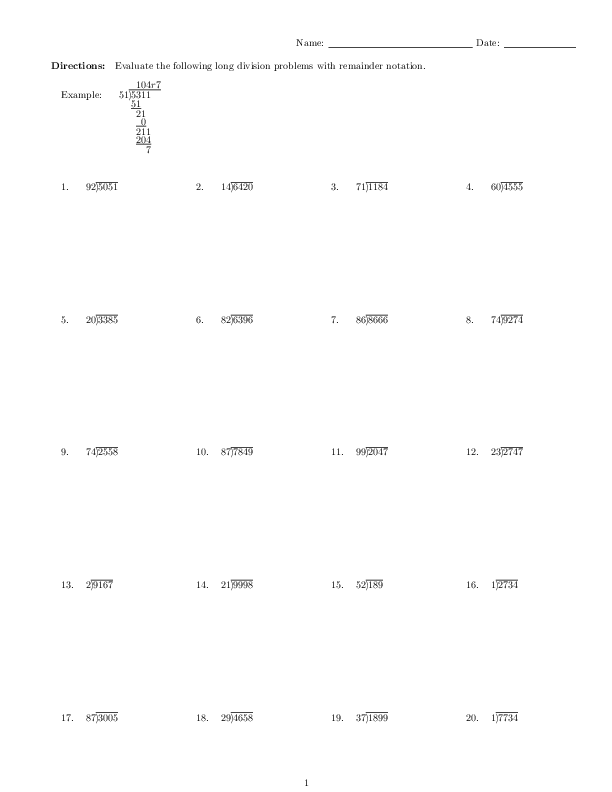
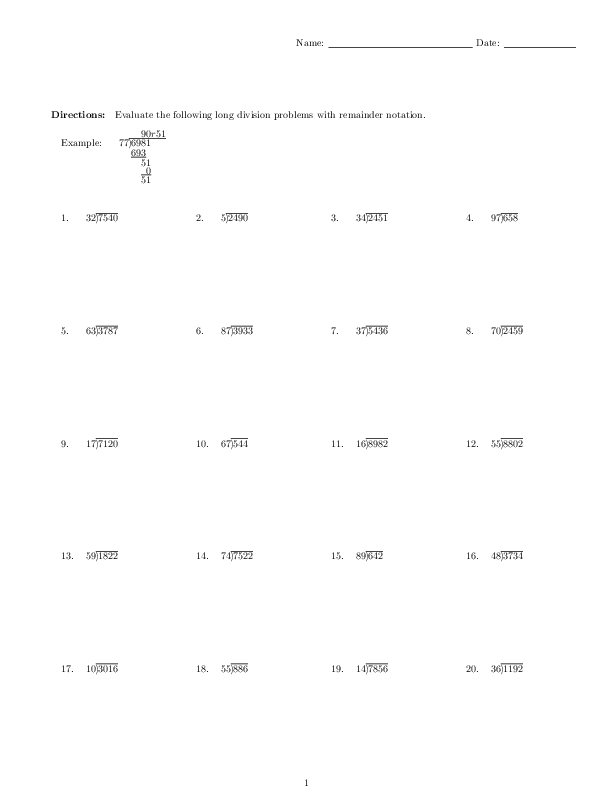
Adding long multiplication

diff --git a/src/document.tex b/src/document.tex
@@ -5,8 +5,10 @@
 % Long Division
 \usepackage{tasks}
 \NewTasks[style=enumerate,label-offset=7em,after-item-skip=10em]{exampleitemize}[\item](1)
-\NewTasks[style=enumerate,label-offset=4em,after-item-skip=10em]{divitemize}[\item](4)
+\NewTasks[style=enumerate,label-offset=4em,after-item-skip=8em]{divitemize}[\item](4)
 \NewTasks[style=enumerate,label-offset=4em,]{divsolitemize}[\item](4)
+\NewTasks[style=enumerate,label-offset=4em,after-item-skip=8em]{mulitemize}[\item](4)
+\NewTasks[style=enumerate,label-offset=4em,]{mulsolitemize}[\item](4)
 \usepackage{scalerel}
 \usepackage{stackengine}
 \usepackage{xcolor}
@@ -16,6 +18,10 @@
 \begin{document}
 \hfill{}Name: \underline{\hspace{2in}} Date: \underline{\hspace{1in}}
 \vfill
+
 \input{longdivision}
+\clearpage
+
+\input{longmultiplication}
 
 \end{document}

diff --git a/README.md b/README.md
@@ -13,4 +13,6 @@ The results of the build can then be read from dist/Homework.pdf
 Change the "SEED" in the `src/SConscript` file and re-build.
 
 ![Example Questions](https://raw.github.com/bellockk/math_homework/master/example/Homework-0.png)
+![Example Solutions](https://raw.github.com/bellockk/math_homework/master/example/Homework-2.png)
 ![Example Solutions](https://raw.github.com/bellockk/math_homework/master/example/Homework-1.png)
+![Example Solutions](https://raw.github.com/bellockk/math_homework/master/example/Homework-3.png)
